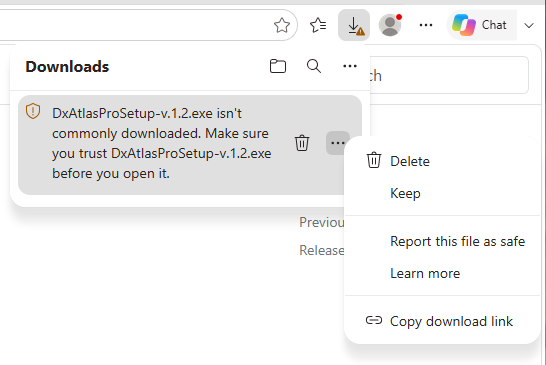
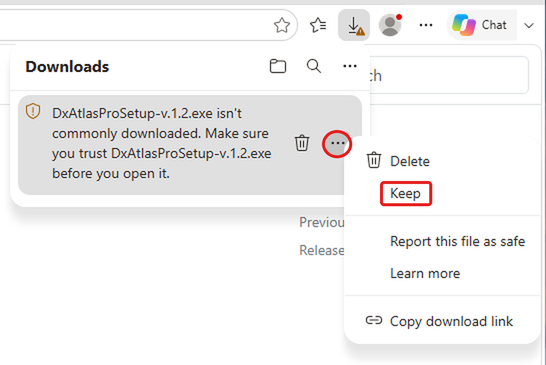
installation guide: annotated screenshots for the SmartScreen, Unblock and Smart App Control steps

diff --git a/docs/users_guide/installation.md b/docs/users_guide/installation.md
@@ -34,15 +34,38 @@ program from a small developer:
 
   ![Edge dialog with the Keep anyway command under the Delete button](../images/keep-anyway.png)
 
-- **"Windows protected your PC"** when you run the setup - click **More info**, then
-  **Run anyway**;
+- **"Windows protected your PC"** when you run the setup - click **More info**:
+
+  ![The Windows protected your PC message](../images/windows-protected-your-pc.png)
+
+  then click **Run anyway**:
+
+  ![The Run anyway button](../images/run-anyway.png)
+
 - **the setup does not start at all** - right-click the downloaded file in File Explorer,
   choose **Properties**, tick **Unblock** at the bottom of the **General** tab, click **OK**, and
-  run the setup again.
+  run the setup again:
+
+  ![The Unblock checkbox in the file Properties](../images/unblock.png)
 
 **Smart App Control**, where it is on, blocks unsigned programs, and none of the steps above get
-past it. You can see whether it is on in **Windows Security > App & browser control > Smart App
-Control settings**.
+past it. Instead of "Windows protected your PC", the setup shows this message:
+
+![The Smart App Control blocked an app message](../images/blocked-an-app.png)
+
+You can see whether Smart App Control is on in Windows Security. Open it from the Start menu
+and click **App & browser control**:
+
+![The Windows Security home page](../images/security-at-a-glance.png)
+
+then click **Smart App Control settings**:
+
+![The App & browser control page of Windows Security](../images/app-and-browser-control.png)
+
+To run the setup, set Smart App Control to **Off**. Windows does not let you turn it back on
+later without resetting the computer:
+
+![The Smart App Control settings page](../images/smart-app-control.png)
 
 ### Uninstalling
 
